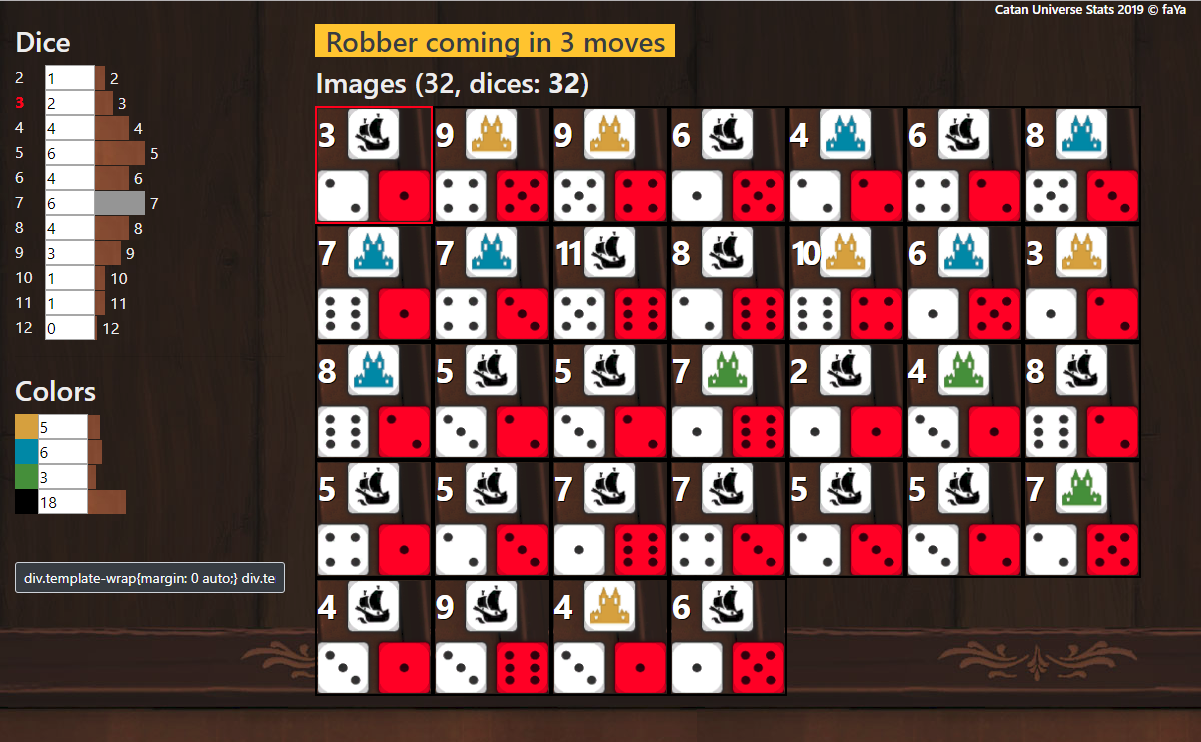
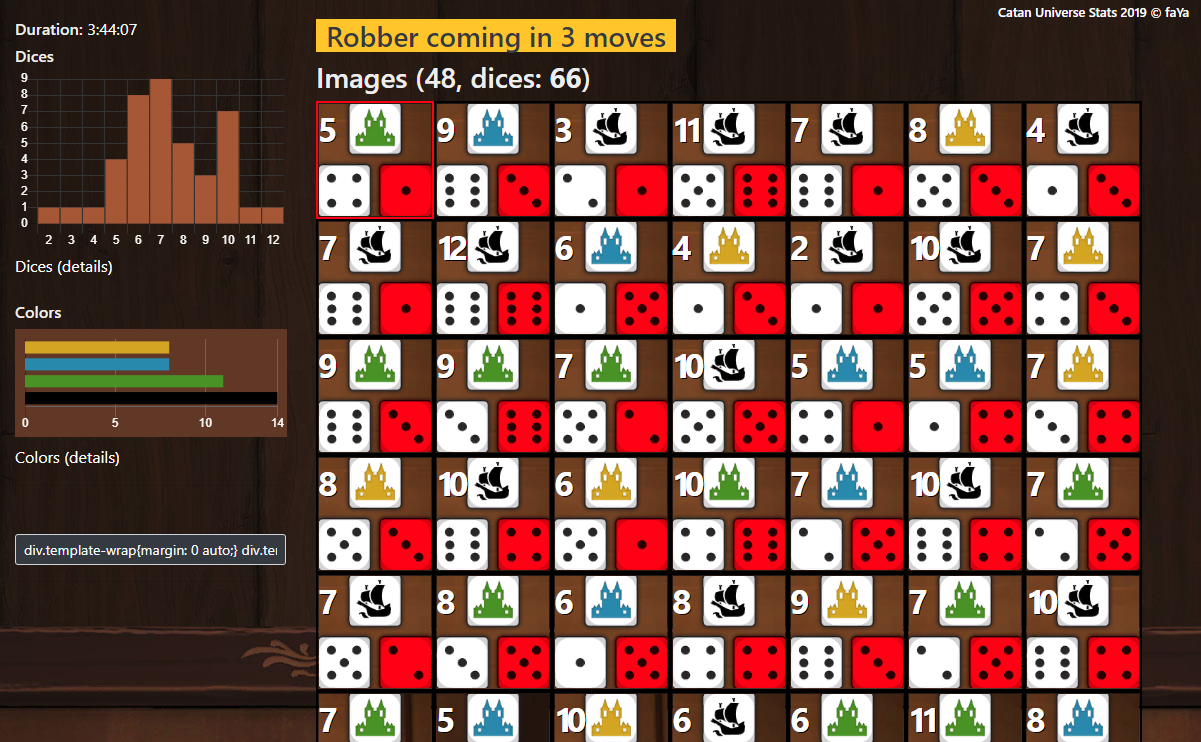
added new charjs horizontal bar color stats, update screenshot

diff --git a/web/inc/script.js b/web/inc/script.js
@@ -102,6 +102,7 @@ $(function() {
 
   var special_colors_web = ['d79e31','008ba9','458d32', '000000'];
   var special_colors_app =  ['d3a105','2c8bad','4a8f1b'];
+  var special_colors;
 
   var special_dices = [2,3,4,5,6,7,8,9,10,11,12];
 
@@ -130,7 +131,7 @@ $(function() {
     var html = '';
     var html_images = '';
     var num=0;
-    var stats=[];
+    var colors={};
     var dices=[];
 
     var current_dice = 0;
@@ -161,8 +162,8 @@ $(function() {
       // console.log(filename_parts);
       if( filename_parts.length > 2 ) {
         color = filename_parts[2].substr(3, 6);
-        if(stats[color]) stats[color]++;
-        else stats[color]=1;
+        if(colors[color]) colors[color]++;
+        else colors[color]=1;
         if( ! MODE_determined) determine_mode(color);
       }
 
@@ -196,24 +197,24 @@ $(function() {
     // console.log(dices);
     var tot_img = num;
     // html+= '<h3>Statistiques</h3>';
-    var special_colors = (MODE=='app') ? special_colors_app : special_colors_web;
+    special_colors = (MODE=='app') ? special_colors_app : special_colors_web;
     // colors
     var tot = 0;
     var num = 0;
     special_colors.forEach(function(col) {
-      let nb = stats[col];
+      let nb = colors[col];
       nb = (typeof nb === 'undefined') ? 0 : nb;
-      stats[col] = nb;
+      colors[col] = nb;
       // html+= '<div class="color" style="background-color:#'+col+';">' + nb + '</div>';
       $('.com input').eq(num).val(nb).change();
       tot += nb;
       num++;
     });
-    // console.log(stats);
+    // console.log(colors);
     // // Quick n dirty hack for 'app' MODE
     // var num = 0;
     // special_colors_app.forEach(function(col) {
-    //   let nb = stats[col];
+    //   let nb = colors[col];
     //   nb = (typeof nb === 'undefined') ? 0:nb;
     //   // html+= '<div class="color" style="background-color:#'+col+';">' + nb + '</div>';
     //   $('.com input').eq(num).val(nb).change();
@@ -238,7 +239,8 @@ $(function() {
 
     // html+= ' = <strong>' + tot + '</strong>';
     // html+= '<hr>';
-    var nb_robber = ( stats['000000'] != undefined ) ? stats['000000'] : 0;
+    var nb_robber = ( colors['000000'] != undefined ) ? colors['000000'] : 0;
+    colors['000000'] = nb_robber;
     // console.log('nb_robber: '+nb_robber);
     if(MODE == 'app') {
       tot += nb_robber;
@@ -270,7 +272,11 @@ $(function() {
     });
 
     dices.splice(0,2);
-    return dices;
+    let res = {
+      'dices': dices,
+      'colors': colors,
+    };
+    return res;
   }
 
   // API SCAN FILES
@@ -282,7 +288,7 @@ $(function() {
     api('api.php?action=files', function(images){
       if( Array.isArray(images) && images.length != current_nb_images) {
         last_stats = traite_images(images);
-        if(last_stats.length > 0) update_stats_graph(last_stats);
+        if(last_stats['dices'].length > 0) update_stats_graph(last_stats);
       }
       $('.icon_loading').hide();
       current_nb_images = images.length;
@@ -297,6 +303,22 @@ $(function() {
   }
 
   // Charts.js
+  function get_max_from_obj(obj){
+    let max = 0;
+    for( index in obj ) {
+      let nb = obj[index];
+      max = (nb > max) ? nb : max;
+    };
+    return max;
+  }
+  // Object.prototype.max = function() {
+  //   let max = 0;
+  //   this.forEach(function(index) {
+  //     let nb = this[index];
+  //     max = (nb > max) ? nb : max;
+  //   });
+  //   return max;
+  // };
   Array.prototype.max = function() {
     return Math.max.apply(null, this);
   };
@@ -305,9 +327,10 @@ $(function() {
   };
   Chart.defaults.global.defaultFontColor = '#fff';
   Chart.defaults.global.defaultFontSize = 12;
+
   function update_stats_graph(last_stats){
 
-    // console.log(last_stats);
+    console.log(last_stats);
 
     var ctx = document.getElementById('stats_graph').getContext('2d');
     var myChart = new Chart(ctx, {
@@ -317,7 +340,7 @@ $(function() {
         datasets: [{
           // legend: false,
           label: 'x',
-          data: last_stats,//[12, 19, 3, 5, 2, 3, 12, 19, 3, 5, 2],
+          data: last_stats['dices'],//[12, 19, 3, 5, 2, 3, 12, 19, 3, 5, 2],
           // backgroundImage: 'url(background.jpg)',
           // backgroundPosition: 'bottom right',
           // backgroundRepeat: 'repeat-y',
@@ -341,7 +364,7 @@ $(function() {
           yAxes: [{
             ticks: {
               beginAtZero: true,
-              max: last_stats.max(),
+              max: last_stats['dices'].max(),
             },
             gridLines: {
               display: true,
@@ -364,7 +387,75 @@ $(function() {
         }
       }
     });
+
+    // colors stats
+    // if( special_colors['000000'] == undefined ) special_colors.push('000000');
+    if( special_colors.indexOf('000000') == -1 ) special_colors.push('000000');
+    let max_nb_color = get_max_from_obj(last_stats['colors'])
+    console.log(special_colors);
+
+    var ctx2 = document.getElementById('colors_graph').getContext('2d');
+    var myChart2 = new Chart(ctx2, {
+      type: 'horizontalBar',
+      data: {
+        labels: special_colors,
+        datasets: [{
+          label: 'x',
+          data: [
+            last_stats['colors'][special_colors[0]],
+            last_stats['colors'][special_colors[1]],
+            last_stats['colors'][special_colors[2]],
+            last_stats['colors'][special_colors[3]],
+          ],
+          backgroundColor: [
+            '#' + special_colors[0],
+            '#' + special_colors[1],
+            '#' + special_colors[2],
+            '#' + special_colors[3],
+          ],
+          borderColor: '#fff',
+          // borderWidth: '0.5',
+        }]
+      },
+      options: {
+        layout: {
+          padding: {
+            top: 10,
+          }
+        },
+        scales: {
+          xAxes: [{
+            barPercentage: 1,
+            categoryPercentage: 0.95,
+            ticks: {
+              display: true,
+              beginAtZero: true,
+              max: max_nb_color,
+            },
+            gridLines: {
+              display: true,
+              color: '#666',
+              // offsetGridLines: true,
+            },
+          }],
+          yAxes: [{
+            ticks: {
+              display: false,
+            },
+            gridLines: {
+              display: false,
+            },
+          }]
+        },
+        defaultFontColor: 'white',
+        legend: {
+          display: false,
+        },
+      }
+    });
+
   }
+
 
   // START
   $('.icon_loading').hide();

diff --git a/web/index.php b/web/index.php
@@ -37,33 +37,11 @@
 
 
           <h6>Dices</h6>
-          <canvas id="stats_graph" class="my-2" height="200"></canvas>
 
-          <!-- <hr /> -->
+          <canvas id="stats_graph" class="mt-2" height="200"></canvas>
 
-          <h6>Colors</h6>
-
-          <div class="row com sheep no-gutters">
-            <div class="col-1">&nbsp;</div>
-            <div class="col"><input name="sheep" type="number" step="1" min="0" value="0"><div class="bar">&nbsp;</div></div>
-          </div>
-          <div class="row com rock no-gutters">
-            <div class="col-1">&nbsp;</div>
-            <div class="col"><input name="rock" type="number" step="1" min="0" value="0"><div class="bar">&nbsp;</div></div>
-          </div>
-          <div class="row com wood no-gutters">
-            <div class="col-1">&nbsp;</div>
-            <div class="col"><input name="wood" type="number" step="1" min="0" value="0"><div class="bar">&nbsp;</div></div>
-          </div>
-          <div class="row com robber no-gutters">
-            <div class="col-1">&nbsp;</div>
-            <div class="col"><input name="robber" type="number" step="1" min="0" value="0"><div class="bar">&nbsp;</div></div>
-          </div>
-
-          <hr>
-
-          <a class="h6 d-block" href="#dices_details" data-toggle="collapse" role="button" aria-expanded="false" aria-controls="dices_details" data-target="#dices_details">Dices (details)</a>
-          <div id="dices_details" class="dice collapse">
+          <a class="text-white" href="#dices_details" data-toggle="collapse" role="button" aria-expanded="false" aria-controls="dices_details" data-target="#dices_details">Dices (details)</a>
+          <div id="dices_details" class="dice collapse mb-4">
             <?php for($i=2; $i<=12; $i++) : ?>
             <div class="row no-gutters0">
               <div class="col-1"><?=$i?></div>
@@ -71,6 +49,33 @@
             </div>
           <?php endfor; ?>
           </div>
+
+
+          <h6 class="mt-4">Colors</h6>
+
+          <canvas id="colors_graph" class="my-2" style="background-color: #613725;" height="120"></canvas>
+
+          <a class="text-white" href="#colors_details" data-toggle="collapse" role="button" aria-expanded="false" aria-controls="colors_details" data-target="#colors_details">Colors (details)</a>
+          <div id="colors_details" class="collapse mb-4">
+            <div class="row com sheep no-gutters">
+              <div class="col-1">&nbsp;</div>
+              <div class="col"><input name="sheep" type="number" step="1" min="0" value="0"><div class="bar">&nbsp;</div></div>
+            </div>
+            <div class="row com rock no-gutters">
+              <div class="col-1">&nbsp;</div>
+              <div class="col"><input name="rock" type="number" step="1" min="0" value="0"><div class="bar">&nbsp;</div></div>
+            </div>
+            <div class="row com wood no-gutters">
+              <div class="col-1">&nbsp;</div>
+              <div class="col"><input name="wood" type="number" step="1" min="0" value="0"><div class="bar">&nbsp;</div></div>
+            </div>
+            <div class="row com robber no-gutters">
+              <div class="col-1">&nbsp;</div>
+              <div class="col"><input name="robber" type="number" step="1" min="0" value="0"><div class="bar">&nbsp;</div></div>
+            </div>
+          </div>
+
+          <hr>
 
           <div class="form-group mt-5">
             <input type="text" name="css" class="form-control form-control-sm bg-dark text-light" value="div.template-wrap{margin: 0 auto;} div.template-wrap, div.game-view {width: 100%;} div.game-container {height: 100%;} #footer,nav.navbar{display: none;}" title="to paste at the bottom of catanuniverse.com's style.css">
